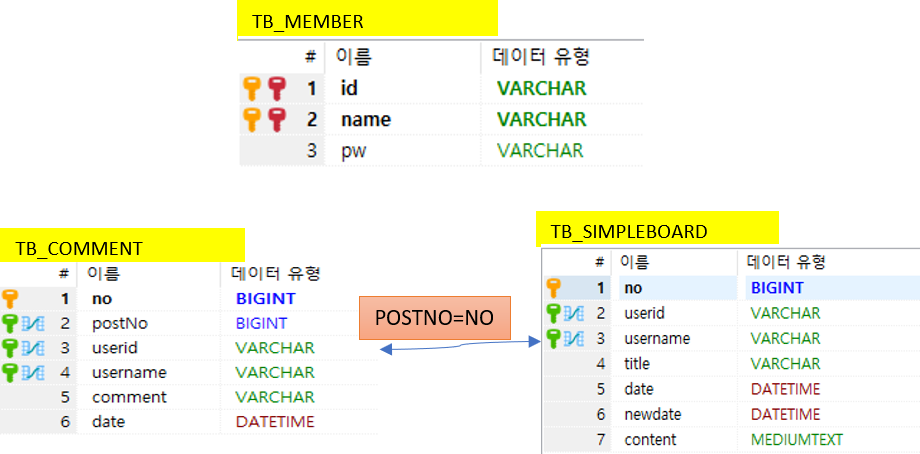
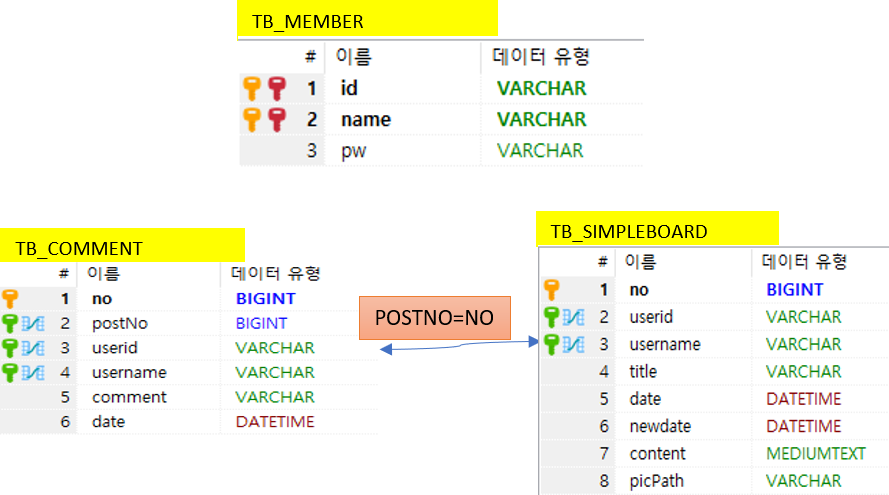
게시글 작성시 사진 업로드 기능 추가, 게시글 확인시 사진 확인 가능

Changed region(s): [[0.0, 0.4009, 1.0, 0.9868], [0.243, 0.0, 0.7289, 0.37]]

diff --git a/SimpleBoard/src/sw/simpleBoard/WriteServlet.java b/SimpleBoard/src/sw/simpleBoard/WriteServlet.java
@@ -1,12 +1,17 @@
 package sw.simpleBoard;
 
+import java.io.File;
 import java.io.IOException;
+import java.util.Enumeration;
 
 import javax.servlet.ServletException;
 import javax.servlet.annotation.WebServlet;
 import javax.servlet.http.HttpServlet;
 import javax.servlet.http.HttpServletRequest;
 import javax.servlet.http.HttpServletResponse;
+
+import com.oreilly.servlet.MultipartRequest;
+import com.oreilly.servlet.multipart.DefaultFileRenamePolicy;
 
 import sw.dto.entity.Member;
 import sw.dto.entity.PostEntity;
@@ -28,16 +33,51 @@ public class WriteServlet extends HttpServlet {
 			throws ServletException, IOException {
 		// TODO Auto-generated method stub
 		try {
+
 			Member member = MyUtil.getLoginMember(request);
 
-			request.setCharacterEncoding("UTF-8");
-			String title = request.getParameter("title");
-			String content = request.getParameter("content");
+			//// 파일 포함 post 받기(request.getParam 불가)
+			// 사진을 실제로 저장할 폴더 생성
+			String WebContentRealPath = MyUtil.getWebContentRealPath(); // WebContent 폴더에 저장
+			String uploadFolder = "serverFile"; // 폴더 한단계 더
+			String uploadRealFolder = WebContentRealPath + File.separator + uploadFolder;
+			File folder = new File(uploadRealFolder);
+			if (!folder.exists()) {
+				folder.mkdir();
+				System.out.println("새로운 폴더 생성");
+			}
 
-			// 유저 아이디와 이름을 둘다 저장하자
-			PostEntity post = new PostEntity(title, content, member);
+			int size = 15 * 1024 * 1024; // 15mb 제한
+
+			// post 요청 받기 클래스 생성
+			MultipartRequest mr = new MultipartRequest(request, uploadRealFolder, size, "UTF-8",
+					new DefaultFileRenamePolicy());
+
+			// 유저가 입력한 내용들 저장
+			PostEntity post = new PostEntity(member);
+
+			String title = mr.getParameter("title");
+			String content = mr.getParameter("content");
+			post.setTitle(title);
+			post.setContent(content);
+
+			// 유저가 올린 파일 보기
+			Enumeration files = mr.getFileNames();
+
+			String param = (String) files.nextElement(); // jsp name
+			String picServerFileName = mr.getFilesystemName(param); // 서버에 저장되는 파일 이름
+			String picOriginFileName = mr.getOriginalFileName(param); // 유저가 올릴때 파일 이름
+
+			if (picServerFileName != null) {
+				System.out.println(param + ", " + picServerFileName + ", " + picOriginFileName);
+				post.setPicPath(uploadFolder + "/" + picServerFileName); // "/"로 해야함(브라우저상에서)}
+			} else {
+				System.out.println("사진 안올림");
+				post.setPicPath(null);
+			}
+
 			System.out.println(post);
-			SimpleBoardBiz.insertPost(member, post);
+			SimpleBoardBiz.insertPost(member, post); // db 저장
 
 			MyUtil.alertAndSendRedirect(response, request.getContextPath() + "/simpleBoard", "글 작성이 완료되었습니다");
 		} catch (Exception e) {

diff --git a/SimpleBoard/src/sw/simpleBoard/biz/SimpleBoardDao.java b/SimpleBoard/src/sw/simpleBoard/biz/SimpleBoardDao.java
@@ -80,7 +80,9 @@ public class SimpleBoardDao {
 	 * @throws Exception
 	 */
 	public PostEntity selectPost(Connection conn, String postNo) throws Exception {
-		String query = "SELECT NO, userid, username, title, DATE, content, newdate FROM simpleboard.tb_simpleboard WHERE NO = ?";
+		String query = "SELECT NO, userid, username, title, DATE, content, newdate, picPath "
+				+ " FROM simpleboard.tb_simpleboard "
+				+ " WHERE NO = ?";
 		PreparedStatement stmt = null;
 		ResultSet rset = null;
 		PostEntity ret = null;
@@ -98,6 +100,7 @@ public class SimpleBoardDao {
 				ret.setDateTime(rset.getString(5));
 				ret.setContent(rset.getString(6));
 				ret.setNewDateTime(rset.getString(7));
+				ret.setPicPath(rset.getString(8));
 			} else {
 				throw new Exception("해당하는 게시글이 삭제되거나 문제가 있습니다.");
 			}
@@ -157,7 +160,9 @@ public class SimpleBoardDao {
 	 * @throws Exception
 	 */
 	public void insertPost(Connection conn, PostEntity post) throws Exception {
-		String query = "INSERT INTO `simpleboard`.`tb_simpleboard` (`userid`, `username`, `title`, `content`) VALUES (?, ?, ?, ?)";
+		String query = "INSERT INTO `simpleboard`.`tb_simpleboard` "
+				+ " (`userid`, `username`, `title`, `content`, `picPath`) "
+				+ " VALUES (?, ?, ?, ?, ?)";
 		PreparedStatement stmt = null;
 
 		// 뉴라인을 <br>로 수정 후 저장
@@ -166,7 +171,7 @@ public class SimpleBoardDao {
 
 		try {
 			stmt = JDBC.setQuery(conn, query, post.getUserId(), post.getUserName(), post.getTitle(),
-					post.getContent());
+					post.getContent(), post.getPicPath());
 			int ret = stmt.executeUpdate();
 
 			if (ret != 1)

diff --git a/SimpleBoard/src/sw/dto/entity/PostEntity.java b/SimpleBoard/src/sw/dto/entity/PostEntity.java
@@ -8,6 +8,12 @@ public class PostEntity {
 	private String dateTime;
 	private String newDateTime;
 	private String content;
+	private String picPath;
+
+	public PostEntity(Member member) {
+		this.userId = member.getId();
+		this.userName = member.getName();
+	}
 
 	/**
 	 * 글 쓰기 데이터 전달 용
@@ -40,6 +46,7 @@ public class PostEntity {
 		this.userId = userId;
 		this.dateTime = dateTime;
 		this.content = null;
+		this.picPath = null;
 	}
 
 	public PostEntity() {
@@ -100,6 +107,19 @@ public class PostEntity {
 
 	public void setNewDateTime(String newDateTime) {
 		this.newDateTime = newDateTime;
+	}
+
+	public String getPicPath() {
+		return picPath;
+	}
+
+	public void setPicPath(String picPath) {
+		this.picPath = picPath;
+	}
+
+	@Override
+	public String toString() {
+		return "PostEntity [title=" + title + ", content=" + content + ", picPath=" + picPath + "]";
 	}
 
 }

diff --git a/SimpleBoard/src/sw/util/MyUtil.java b/SimpleBoard/src/sw/util/MyUtil.java
@@ -1,5 +1,6 @@
 package sw.util;
 
+import java.io.File;
 import java.io.IOException;
 import java.io.PrintWriter;
 
@@ -10,6 +11,13 @@ import javax.servlet.http.HttpSession;
 import sw.dto.entity.Member;
 
 public class MyUtil {
+
+	public static String getWebContentRealPath() {
+		String t = File.separator;
+		String ret = "D:" + t + "web" + t + "SimpleBoard" + t + "WebContent";
+		return ret;
+	}
+
 	/**
 	 * 세션을 살펴보고 현재 로그인되어있는지 확인한다.
 	 * 
@@ -31,6 +39,7 @@ public class MyUtil {
 
 	/**
 	 * alert를 실행하고 다른 페이지로 리다이렉트 한다.
+	 * 
 	 * @param response
 	 * @param url
 	 * @param msg

diff --git a/SimpleBoard/src/sw/simpleBoard/ShowOnePostServlet.java b/SimpleBoard/src/sw/simpleBoard/ShowOnePostServlet.java
@@ -50,8 +50,8 @@ public class ShowOnePostServlet extends HttpServlet {
 			System.out.println(postNo);
 			// 게시글 불러오기
 			PostEntity post = SimpleBoardBiz.selectPost(postNo);
-
-			// 댓글 불러오기 AJAX로 수정 예정
+			
+			// 댓글 불러오기
 			List<CommentEntity> comments = CommentBiz.getComments(postNo);
 
 			RequestDispatcher rd = request.getRequestDispatcher("board/showOnePost.jsp");

diff --git a/README.md b/README.md
@@ -48,15 +48,17 @@
 
 ## NextTodo
 ```
-파일 업로드 구현
-게시글에 사진 기능 추가
+게시글 수정 시
+- 올린 사진 삭제
+- 올린 사진 수정
+- 사진 안올렸는데 올리기
 ```
 
 <br>
 
 ---
 
-### 구현된 목록 (2021-02-09)
+### 구현된 목록 (2021-02-16)
 - 회원 관리
     - 회원가입(signUp)
     - 회원탈퇴(signOut)
@@ -69,7 +71,9 @@
 - 게시글
     - 전체 게시글 목록 보기(simpleBoard)
     - 특정 게시글 상세 보기(showOnePost)
+        - 그림 한장 보기 기능
     - 게시글 작성하기(writePost)
+        - 그림 한장 올리기 기능
     - 자신의 게시글 삭제(deletePost)
     - 자신의 게시글 수정(updatePost)
     - 댓글(comment)
@@ -112,14 +116,16 @@ CREATE TABLE `tb_simpleboard` (
 	`date` DATETIME NOT NULL DEFAULT current_timestamp(),
 	`newdate` DATETIME NULL DEFAULT NULL,
 	`content` MEDIUMTEXT NULL DEFAULT NULL COLLATE 'utf8_general_ci',
+	`picPath` VARCHAR(50) NULL DEFAULT NULL COLLATE 'utf8_general_ci',
 	PRIMARY KEY (`no`) USING BTREE,
 	INDEX `FK_tb_simpleboard_tb_member` (`userid`, `username`) USING BTREE,
 	CONSTRAINT `FK_tb_simpleboard_tb_member` FOREIGN KEY (`userid`, `username`) REFERENCES `simpleboard`.`tb_member` (`id`, `name`) ON UPDATE CASCADE ON DELETE SET NULL
 )
 -- COLLATE='utf8_general_ci'
 -- ENGINE=InnoDB
--- AUTO_INCREMENT=36
+-- AUTO_INCREMENT=55
 ;
+
 ```
 
 #### TB_COMMENT
@@ -150,6 +156,8 @@ CREATE TABLE `tb_comment` (
 
 
 ## Setting
+### Encoding
+- All UTF-8
 ### Server
 - Apache Tomcat 9.0
     - [server runtime environments] - [add] ...
@@ -175,5 +183,9 @@ CREATE TABLE `tb_comment` (
 - cos.jar
 - <a href="http://servlets.com/cos/">다운 링크</a>
     - WEB-INF/lib
+### Auto Refresh After File Upload
+- 클라이언트가 서버에 이미지를 올리고 올린 사진을 확인할 때 이클립스 폴더 새로고침 해줘야함.
+- Auto
+    - [Window]-[Preferences]-[General]-[Workspace]-[Refresh using native hooks or polling]
 ---
 
